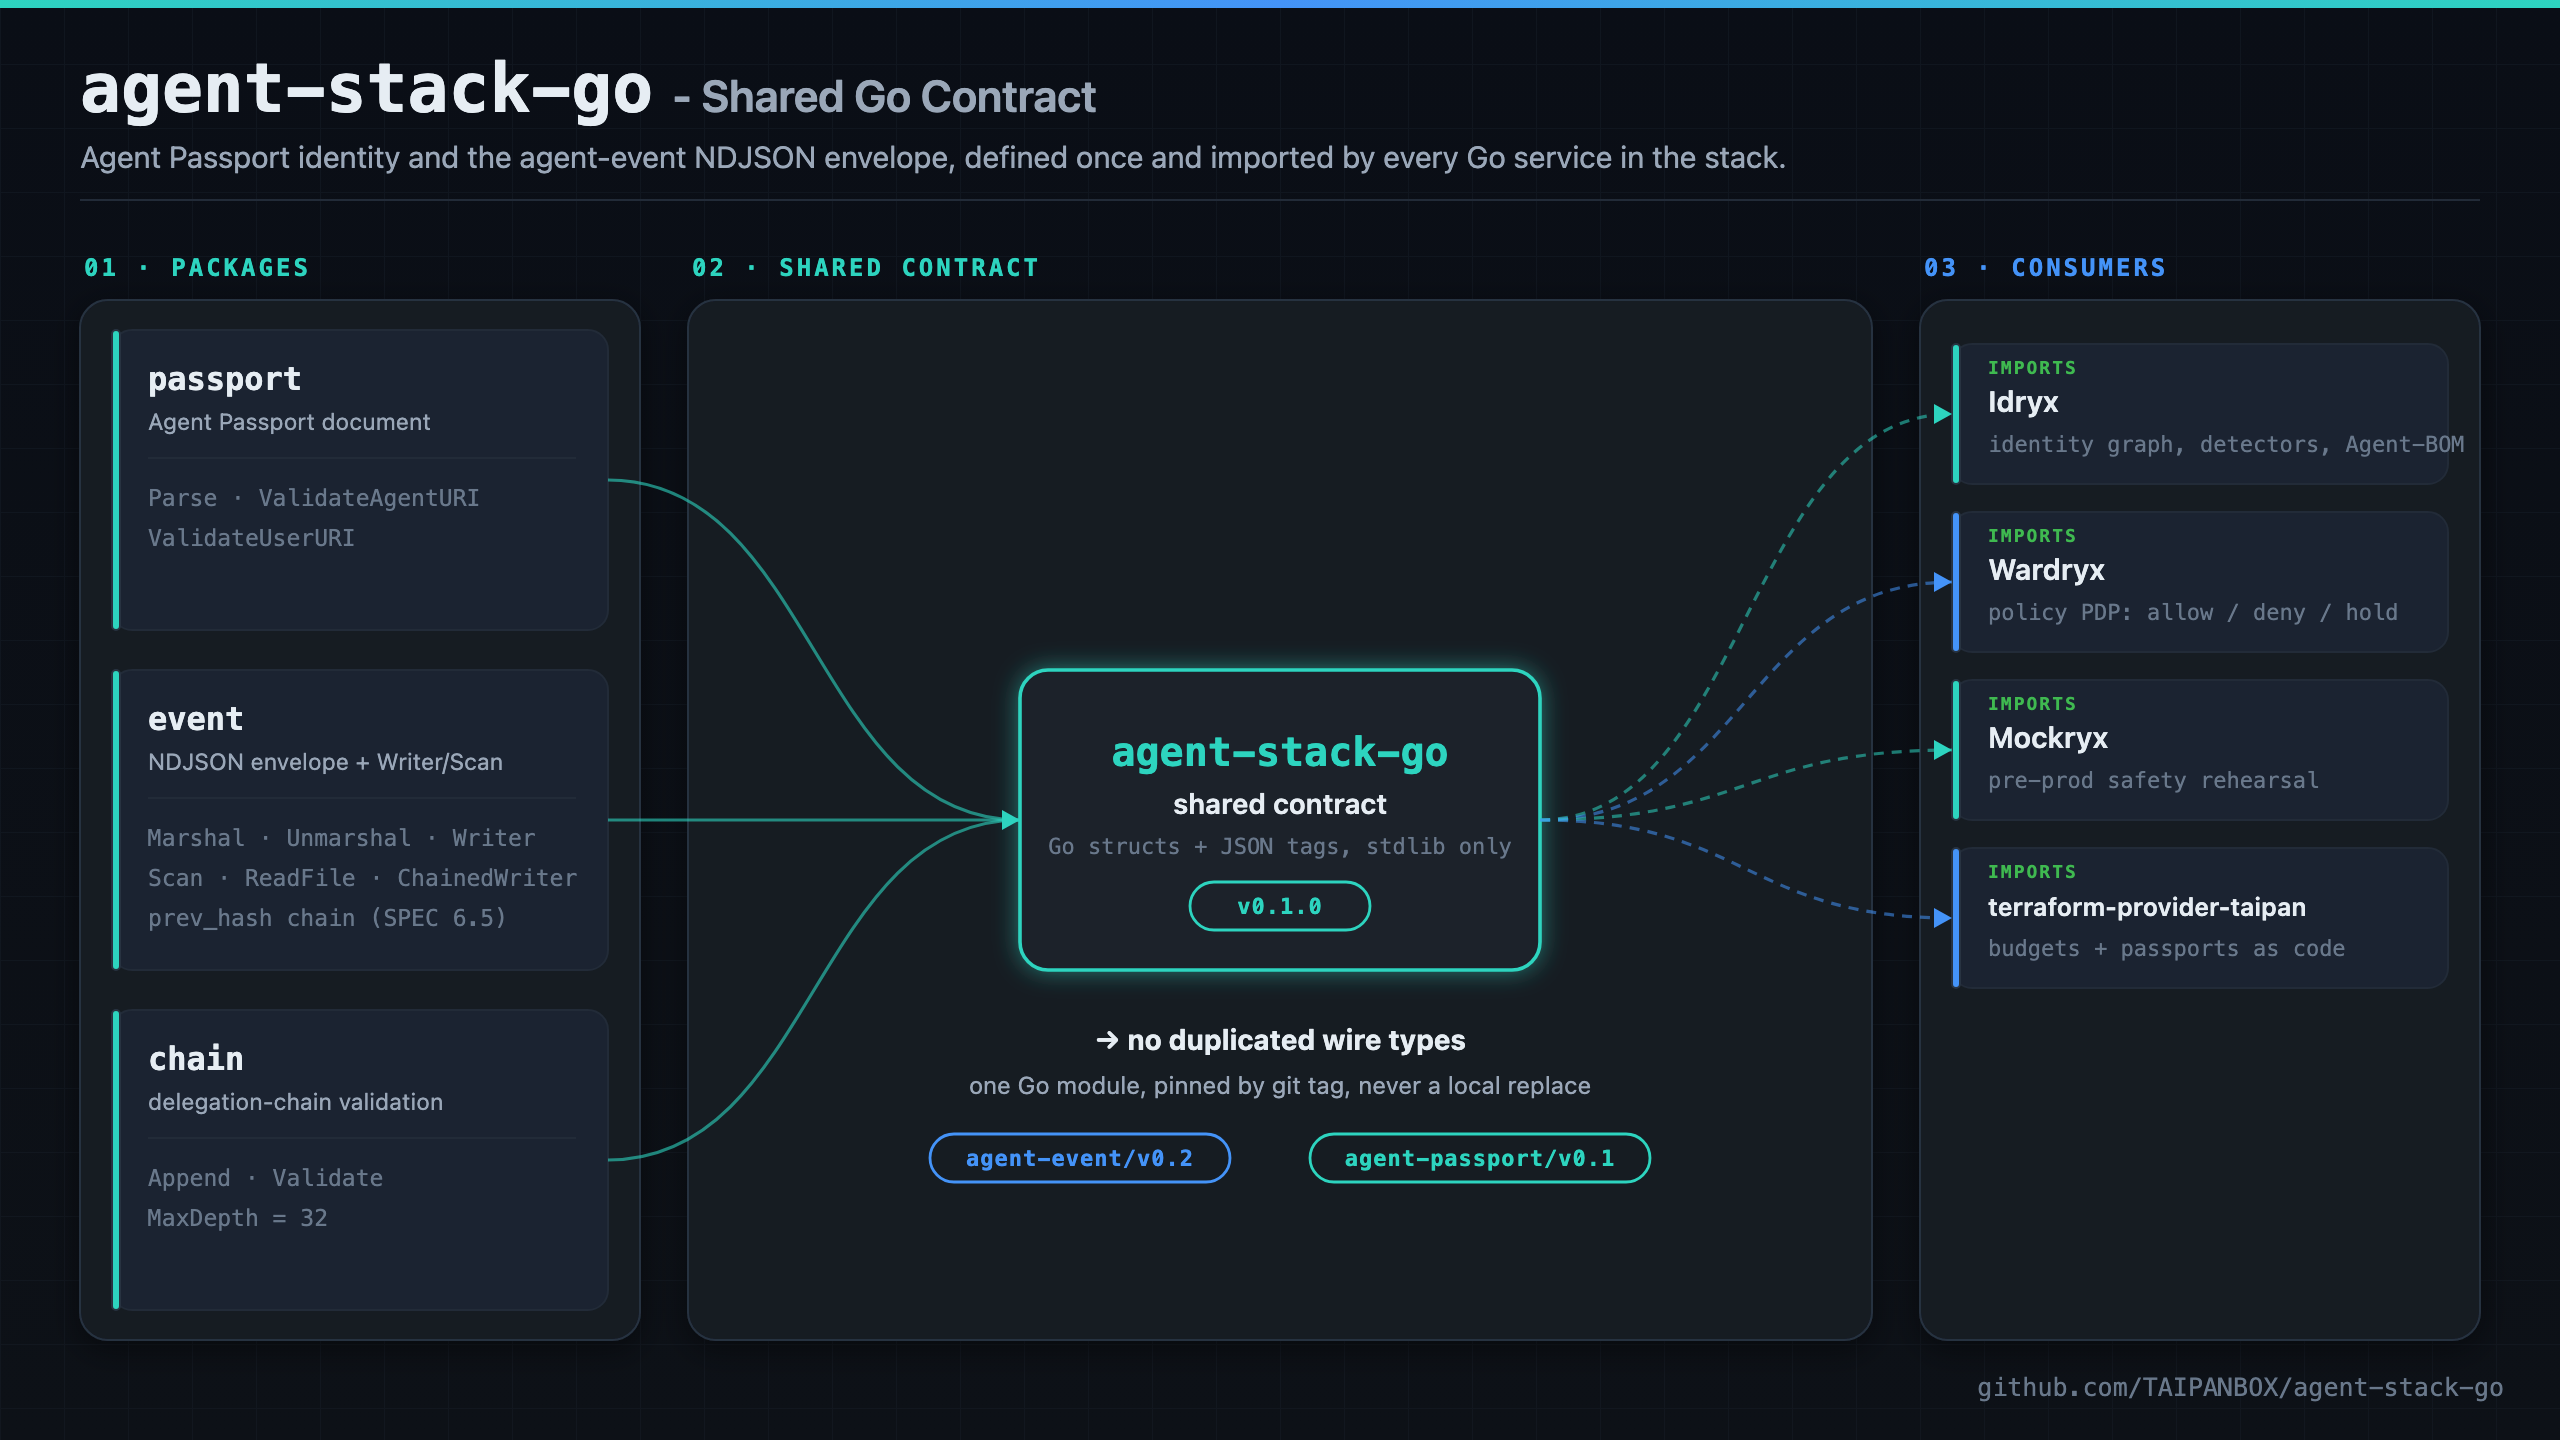
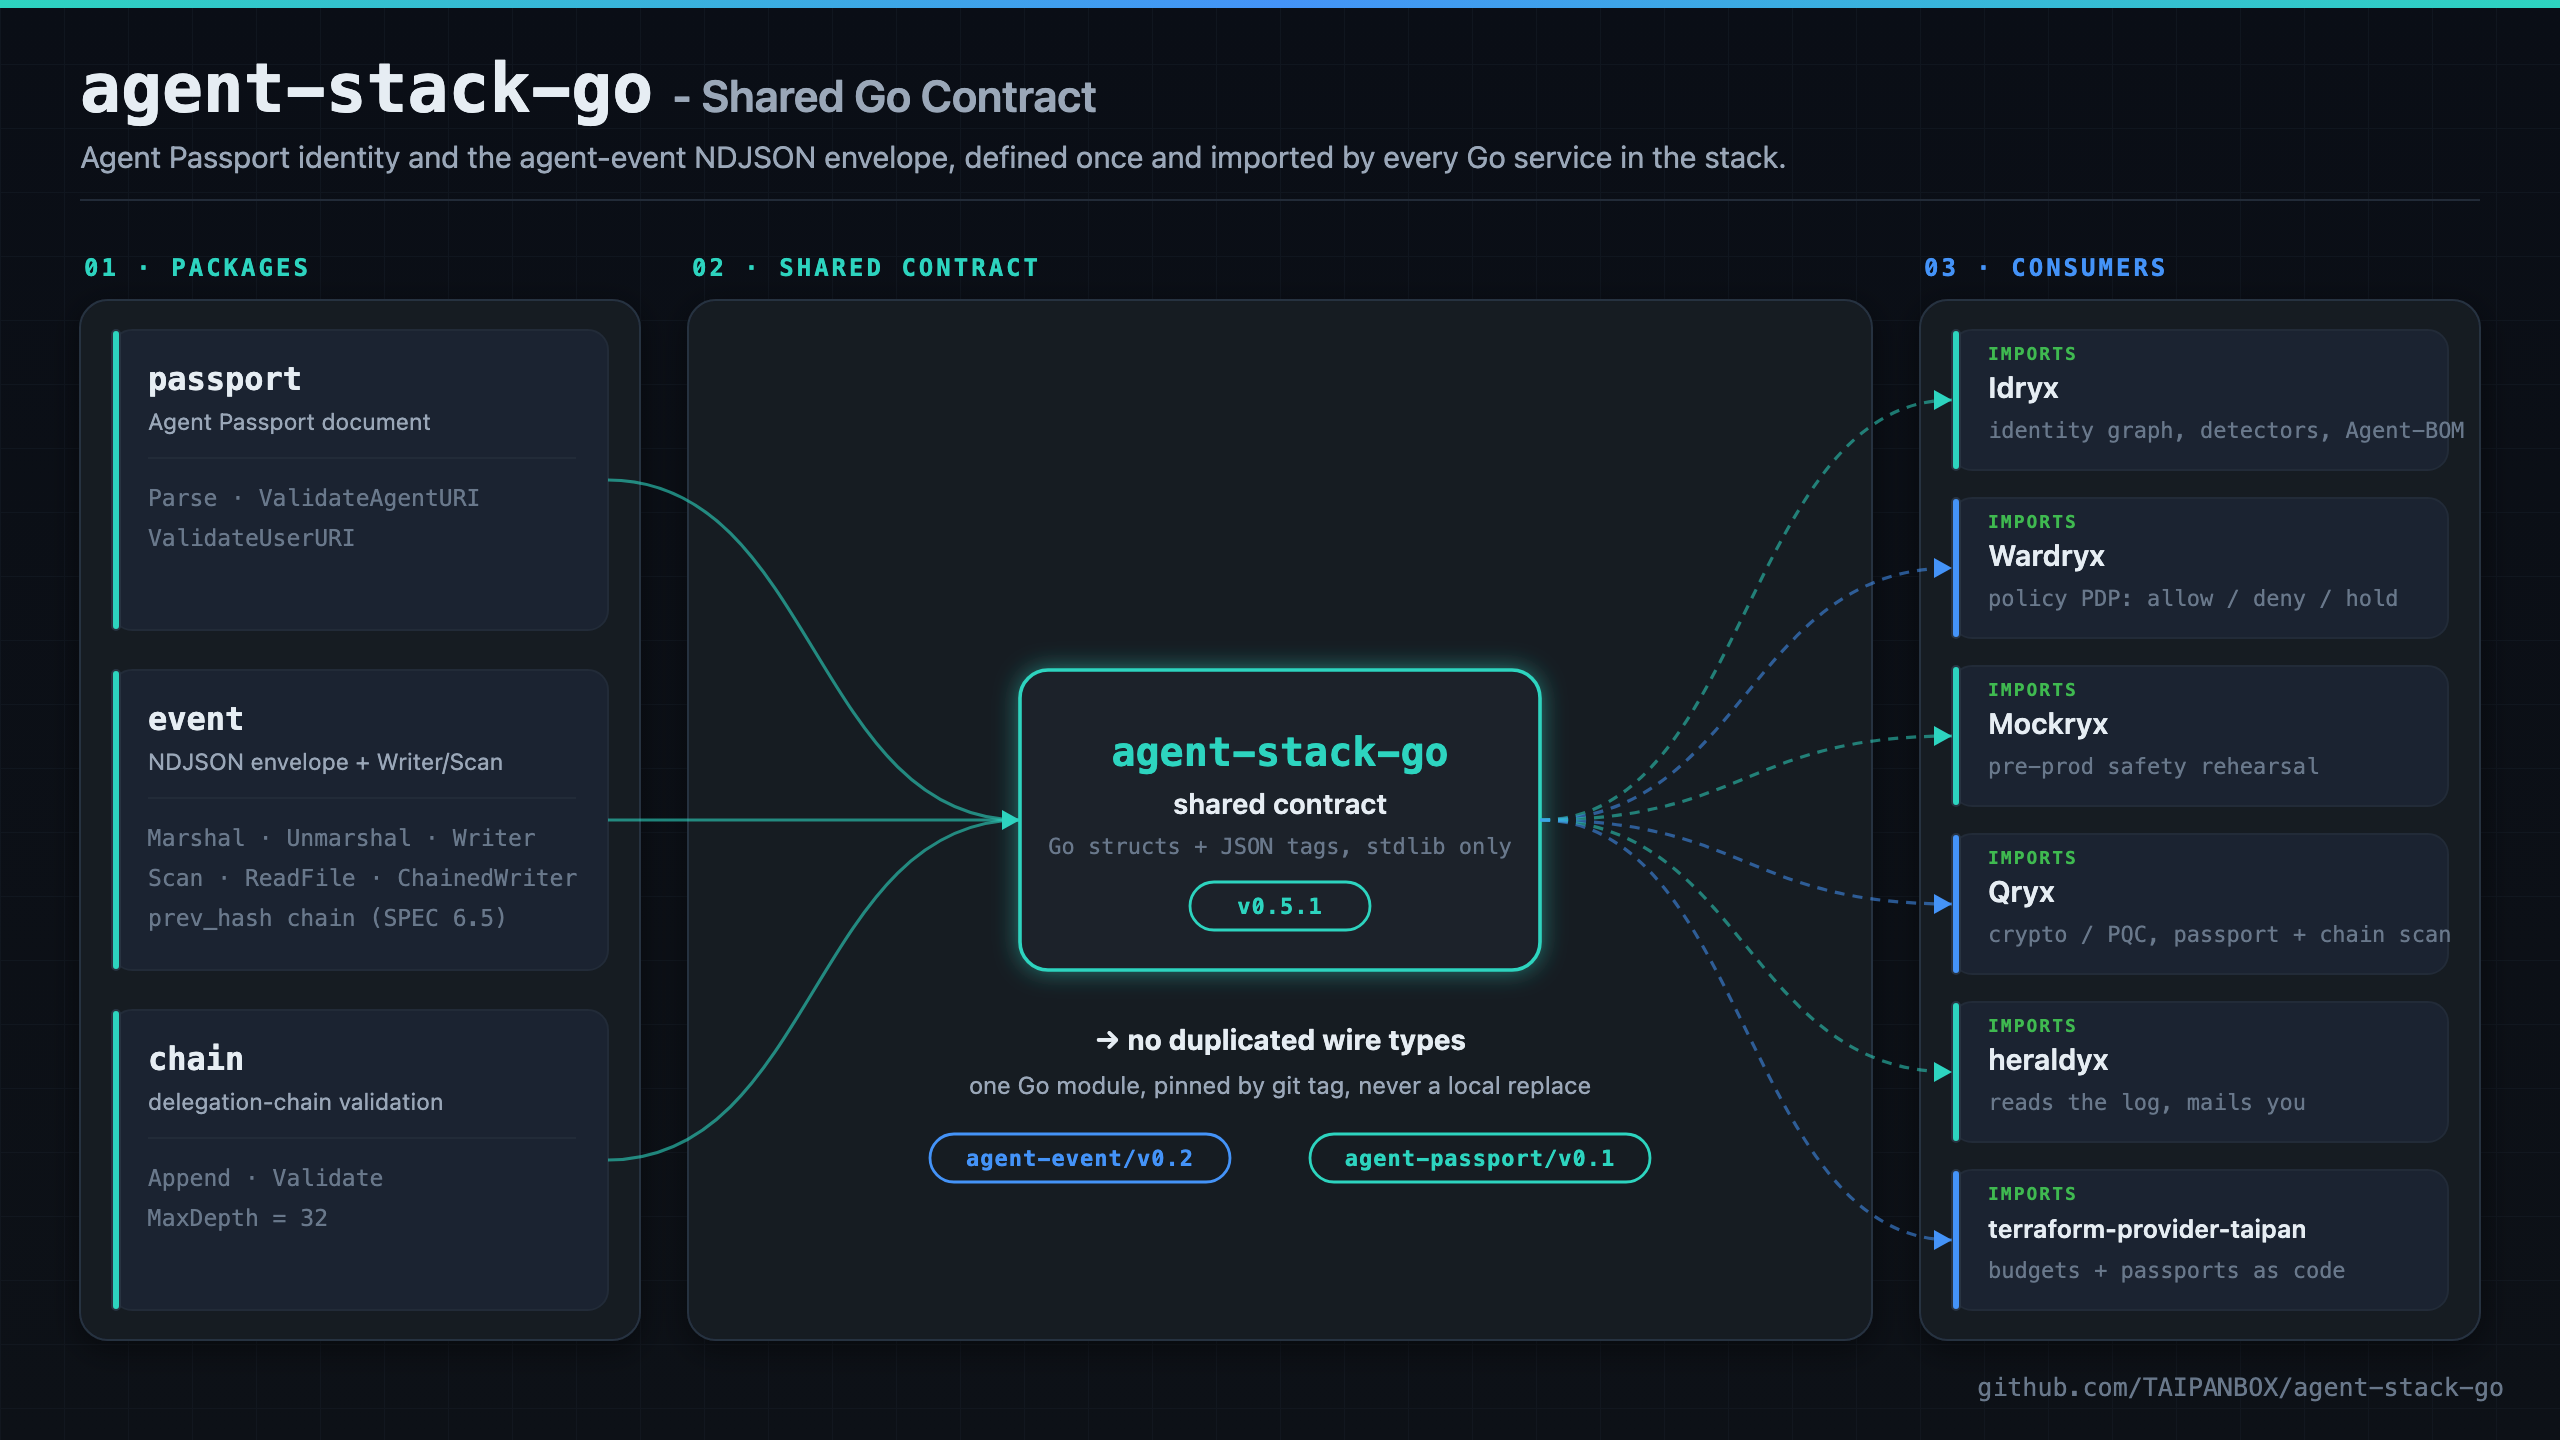
docs: four numbers about this repo, and the tag it says to install, had moved on
Four claims, one shape: each was true when written and nothing told anybody
when it stopped being.

THE TAG. The latest tag is v0.5.1 and the README said v0.5.0 in the badge and
in both install lines. Applying the taxonomy from "The install and verify lines
name the tag being cut": install and status move, history does not, so
"landed after v0.2.0 and shipped in v0.4.0" and "SemVer, starting at v0.1.0"
are untouched on purpose.

THE VERIFY RECIPE, which is the one that mattered. It downloaded from
releases/latest/download and rebuilt `git checkout v0.5.0`. That was consistent
for about an hour: v0.5.0 was tagged at 11:07 and v0.5.1 at 12:10 the same day,
`latest` moved, and from then on the recipe told a reader to compare a v0.5.0
rebuild against the v0.5.1 archive. Those differ by construction, because
-X main.version stamps the tag into the bytes. The failure is the same one the
section below it already documents: somebody who does exactly what we told them
gets a mismatch and a good reason to think we are lying about the one property
this section exists to demonstrate. Both sides now name one tag through $V, and
the text says why latest is right for installing and wrong for verifying.

The digest was NOT retyped. fe8ccb5e... was rebuilt here on 2026-08-06, from a
fresh clone at v0.5.0 with Go 1.26.5 on darwin/arm64, and came out identical, so
the recipe stays pinned to the pair that has actually been measured end to end.
[…]

diff --git a/README.md b/README.md
@@ -9,7 +9,7 @@
 ![Go](https://img.shields.io/badge/go-1.26-00ADD8.svg)
 ![tests](https://img.shields.io/badge/tests-85-brightgreen.svg)
 ![License](https://img.shields.io/badge/license-Apache--2.0-blue.svg)
-![Status](https://img.shields.io/badge/status-v0.5.0-success.svg)
+![Status](https://img.shields.io/badge/status-v0.5.1-success.svg)
 
 <img src="docs/architecture.png" alt="agent-stack-go: the passport, event and chain packages compose one shared contract, imported by tag by Idryx, Wardryx, Mockryx, Qryx, heraldyx and terraform-provider-taipan" width="960">
 
@@ -20,7 +20,7 @@ service in the TAIPANBOX agent-governance stack (Wardryx, Mockryx, and
 future siblings) needs to speak the same identity and event language as
 TokenFuse, Idryx, Qryx, and Engram. Idryx's equivalents live under
 `internal/` and cannot be imported outside that repo, which is why this
-module exists: one shared source, not four drifting copies.
+module exists: one shared source, not six drifting copies.
 
 The stack this module supports is a defensive, self-protection system: it
 exists so an organization running AI agents can govern and audit its own
@@ -183,7 +183,7 @@ autonomously.
 ## Install
 
 ```sh
-go get github.com/TAIPANBOX/agent-stack-go@v0.5.0
+go get github.com/TAIPANBOX/agent-stack-go@v0.5.1
 ```
 
 Pin to a tagged release, not to `@latest` and never to a local `replace`
@@ -231,17 +231,20 @@ places: this tool's output is a verdict about *your* system, and a verdict is
 worth what its checker is worth.
 
 ```sh
+# ONE tag on both sides. `agent-conform -version` prints the one you have.
+V=v0.5.0
+
 # ours, unpacked ANYWHERE EXCEPT the checkout (see the warning below)
 mkdir -p /tmp/verify && cd /tmp/verify
-curl -fsSLO https://github.com/TAIPANBOX/agent-stack-go/releases/latest/download/agent-conform_darwin_arm64.tar.gz
+curl -fsSLO https://github.com/TAIPANBOX/agent-stack-go/releases/download/$V/agent-conform_darwin_arm64.tar.gz
 tar -xzf agent-conform_darwin_arm64.tar.gz
 
 # yours, from a clean tree
 cd /path/to/your/agent-stack-go
-git checkout v0.5.0
+git checkout $V
 git status --porcelain      # must print nothing at all
 CGO_ENABLED=0 GOOS=darwin GOARCH=arm64 go build -trimpath \
-  -ldflags "-s -w -X main.version=v0.5.0" -o /tmp/verify/mine ./cmd/agent-conform
+  -ldflags "-s -w -X main.version=$V" -o /tmp/verify/mine ./cmd/agent-conform
 
 sha256sum /tmp/verify/mine \
   /tmp/verify/agent-conform_darwin_arm64/agent-conform
@@ -250,8 +253,22 @@ sha256sum /tmp/verify/mine \
 ```
 
 Two identical digests. Measured on 5 August 2026 from a fresh clone against the
-real `v0.5.0` assets, cross-compiled on an Ubuntu runner and rebuilt on macOS:
+real `v0.5.0` assets, cross-compiled on an Ubuntu runner and rebuilt on macOS,
+and rebuilt again on 6 August 2026 with Go 1.26.5 to the same value:
[1 lines of base64/hex data omitted]
+
+**Both sides name one tag, and that is why `$V` is in the recipe rather than
+`latest`.** The download line used to say `releases/latest/download`, which was
+true for about an hour: v0.5.0 and v0.5.1 were tagged the same day, `latest`
+moved, and the recipe went on telling you to rebuild v0.5.0 and compare it
+against the v0.5.1 archive. Those two binaries differ by construction, since
+`-X main.version` stamps the tag into the bytes, so anybody following it got a
+mismatch and a good reason to think we were lying. `latest` is the right address
+for INSTALLING, where you want whatever is current; it is the wrong one for
+VERIFYING, where the whole job is comparing like with like. The digest above is
+`v0.5.0` because that is the pair that was measured end to end. Set `V` to the
+tag you actually installed and the recipe holds; the number it prints is then
+yours to compare, not one to look up here.
 
 **Build from a clean tree, and do not unpack our archive inside it.** Go stamps
 `vcs.modified` into the binary, and **one untracked file anywhere in the
@@ -338,7 +355,7 @@ func main() {
 ## Command-line tool: `agent-conform`
 
 ```sh
-go install github.com/TAIPANBOX/agent-stack-go/cmd/agent-conform@v0.5.0
+go install github.com/TAIPANBOX/agent-stack-go/cmd/agent-conform@v0.5.1
 agent-conform passport.json events.ndjson
 ```
 
@@ -417,7 +434,7 @@ next divergence is caught by CI rather than by a reader.
 This module follows SemVer, starting at `v0.1.0`. Breaking the wire contract
 (the `passport` or `event` schema) is a spec version bump, never a silent
 change; the Go types version alongside the module itself. Consumers pin it
-by tag (`go get github.com/TAIPANBOX/agent-stack-go@v0.5.0`), never a local
+by tag (`go get github.com/TAIPANBOX/agent-stack-go@v0.5.1`), never a local
 `replace`.
 
 ---
@@ -433,7 +450,7 @@ by tag (`go get github.com/TAIPANBOX/agent-stack-go@v0.5.0`), never a local
   properties name the same set (a mistyped tag validates fine, since
   `additionalProperties` is true, and declares nothing)
 - [x] `passport.LoadDir`: shared batch loader (resolve dir/glob/file, sorted, tolerant, first-seen-id dedup), extracted out of Wardryx's and Idryx's independent copies
-- [x] `v0.5.0` tagged, the first release to publish `agent-conform` as a binary; CI green on `gofmt`, `go vet`, `staticcheck`, `go test -race`, `go build`, `govulncheck`
+- [x] `v0.5.0` tagged, the first release to publish `agent-conform` as a binary, then `v0.5.1` the same day, which is what the install lines above pin: it moved the version out of the release asset names and into the binary, so `releases/latest/download/<name>` is a permanent address; CI green on `gofmt`, `go vet`, `staticcheck`, `go test -race`, `go build`, `govulncheck`
 - [x] `cmd/agent-conform`: standalone conformance-check CLI, full JSON Schema
   validation (Passport documents + event v0.1/v0.2) against embedded copies
   of the canonical schemas; live-verified against real fixtures elsewhere

diff --git a/CLAUDE.md b/CLAUDE.md
@@ -27,8 +27,8 @@ envelope, the delegation chain, and the `prev_hash` integrity chain, so every Go
 service in the stack speaks one wire language.
 
 It exists because Idryx's equivalents live under `internal/` and cannot be
-imported. Without this module the stack would carry four drifting copies of the
-same types. **Preventing that drift is the entire point of the repo**, and it is
+imported. Without this module the stack would carry six drifting copies of the
+same types, one per importer in the table below. **Preventing that drift is the entire point of the repo**, and it is
 the lens for every change here.
 
 The stack this module serves is defensive: it exists so an organization can
@@ -37,10 +37,28 @@ commit messages, as tooling for acting against anyone else.
 
 ## Blast radius, read this before calling a change routine
 
-This module is imported **by tag** by at least four repos: `idryx`, `wardryx`,
-`mockryx`, `terraform-provider-taipan`. A change to an exported type, an error
-value, or a hashing rule is a change to all of them at once, and consumers pin
-by tag specifically so they do not get it by surprise.
+This module is imported **by tag** by six repos. Measured on 2026-08-06 by
+reading the `go.mod` of every repository beside this one, rather than by
+counting from memory, which is how this list lost two of them:
+
+| Repo | Pins |
+|---|---|
+| `idryx` | `v0.5.1` |
+| `wardryx` | `v0.4.0` |
+| `mockryx` | `v0.4.0` |
+| `qryx` | `v0.4.0` |
+| `heraldyx` | `v0.4.0` |
+| `terraform-provider-taipan` | `v0.1.0` |
+
+A change to an exported type, an error value, or a hashing rule is a change to
+all six, and consumers pin by tag specifically so they do not get it by
+surprise. Note what the right-hand column actually says: they are spread across
+four different tags, so "everyone gets it at once" is false in timing and true
+in obligation. The one that has to keep working is the oldest, `v0.1.0`, not
+the newest.
+
+Keep this table beside the README's importer list and the `docs/architecture`
+diagram: three places name these repos, and on 2026-08-05 all three disagreed.
 
 Consequence: there is no such thing as a small change to a public signature in
 this repo. Either it is additive and backward compatible, or it is a version
@@ -71,7 +89,15 @@ go test -race ./...
 go build ./...
 ./scripts/deps-layering.sh
 ./scripts/schemas-in-sync.sh   # needs TAIPANBOX/agent-passport checked out beside this repo
+./scripts/readme-numbers.sh
+./scripts/reproducible-build.sh
 ```
+
+The last two were CI-only until 2026-08-06 and were missing from this list,
+which meant "run every gate below" was a smaller instruction than CI's. All six
+run locally and all six run in CI. Note that `reproducible-build.sh` builds from
+`git archive HEAD`, so it judges the last commit and not the working tree: run
+it after committing, or it will tell you about code you have already changed.
 
 `make lint` runs gofmt plus vet plus staticcheck. Note that `make staticcheck`
 **skips silently** when staticcheck is not installed, so a green `make lint` on
@@ -93,7 +119,7 @@ had one, is worse than an absent invariant.
    `github.com/gowebpki/jcs`, and it is there because RFC 8785 canonicalization
    is required by SPEC 6.5. `github.com/santhosh-tekuri/jsonschema/v6` is for
    `cmd/agent-conform` and tests only and must never appear in a library
-   package. A dependency added here lands in four consumers at once.
+   package. A dependency added here lands in six consumers at once.
    *(gate: `scripts/deps-layering.sh`)*
 2. **A change to an exported type, constant, or error value is a version
    decision, not an edit.** Consumers pin by tag. Additive and backward

diff --git a/VALIDATION.md b/VALIDATION.md
@@ -10,9 +10,13 @@ implementations that import it, on real files they produced".
 
 ## Its own test suite
 
-67 tests across `passport`, `event`, `chain` and `cmd/agent-conform`, green on
+85 tests across `passport`, `event`, `chain` and `cmd/agent-conform`, green on
 `go test ./... -count=1`. CI additionally gates on `gofmt`, `go vet`,
-`staticcheck`, `go test -race`, `go build` and `govulncheck`.
+`staticcheck`, `go test -race`, `go build`, `govulncheck`, and on the two
+claims this file used to make in prose: that the vendored schemas still match
+the repository that owns them (`scripts/schemas-in-sync.sh`) and that this
+number is the number (`scripts/readme-numbers.sh`, which reads both this file
+and the README badge, because the count went stale here first).
 
 The one worth naming: a conformance test that validates this module's own types
 against the **canonical `agent-event` JSON Schemas** from the
